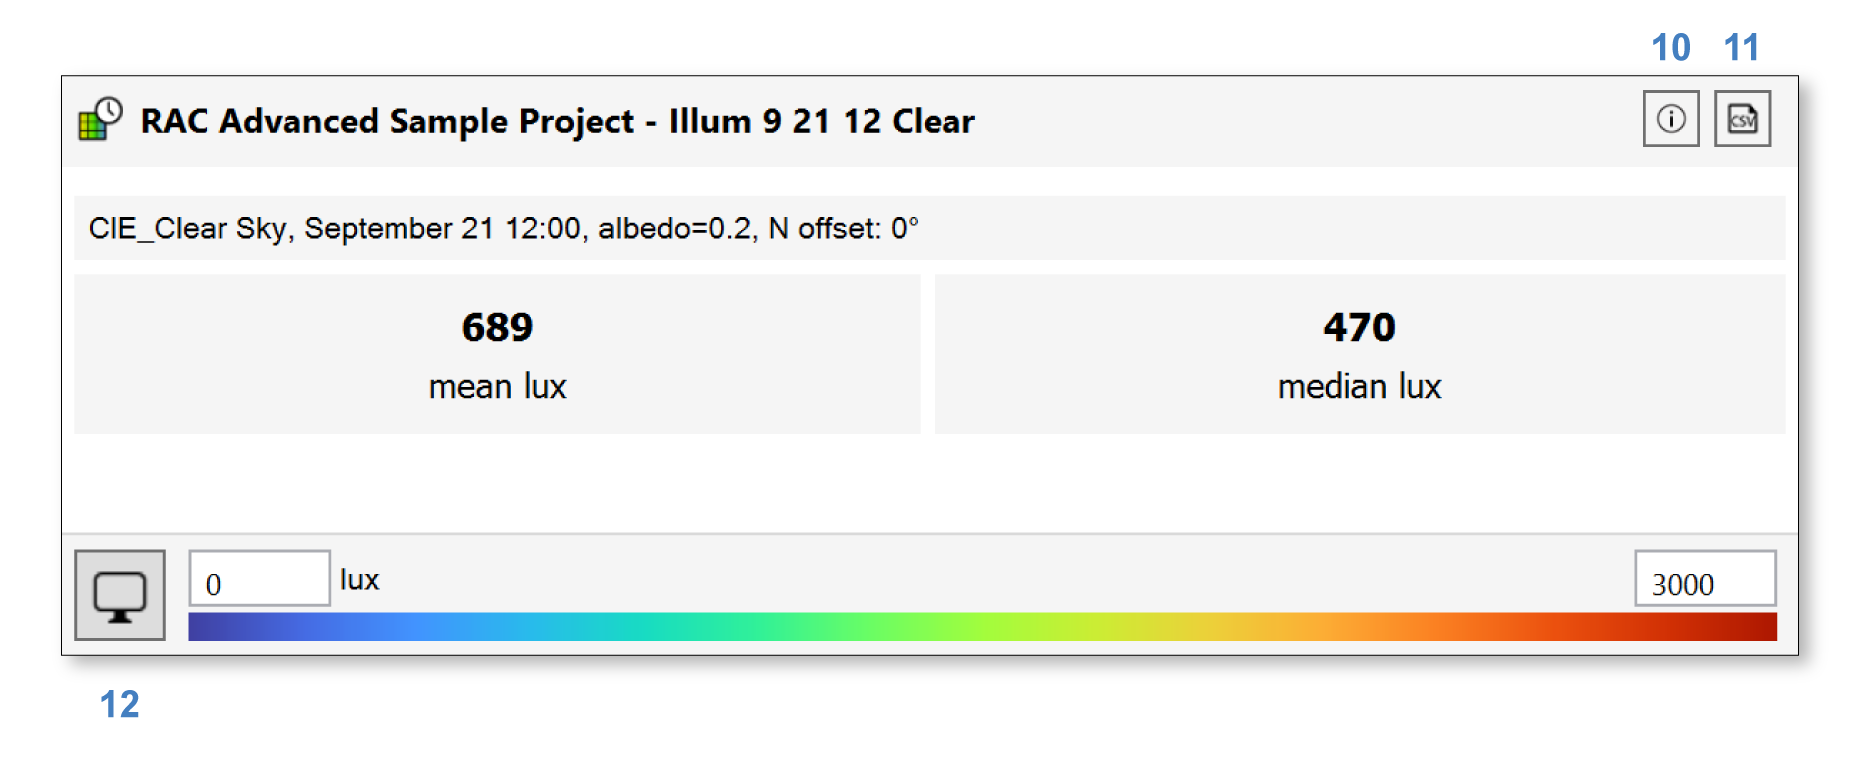
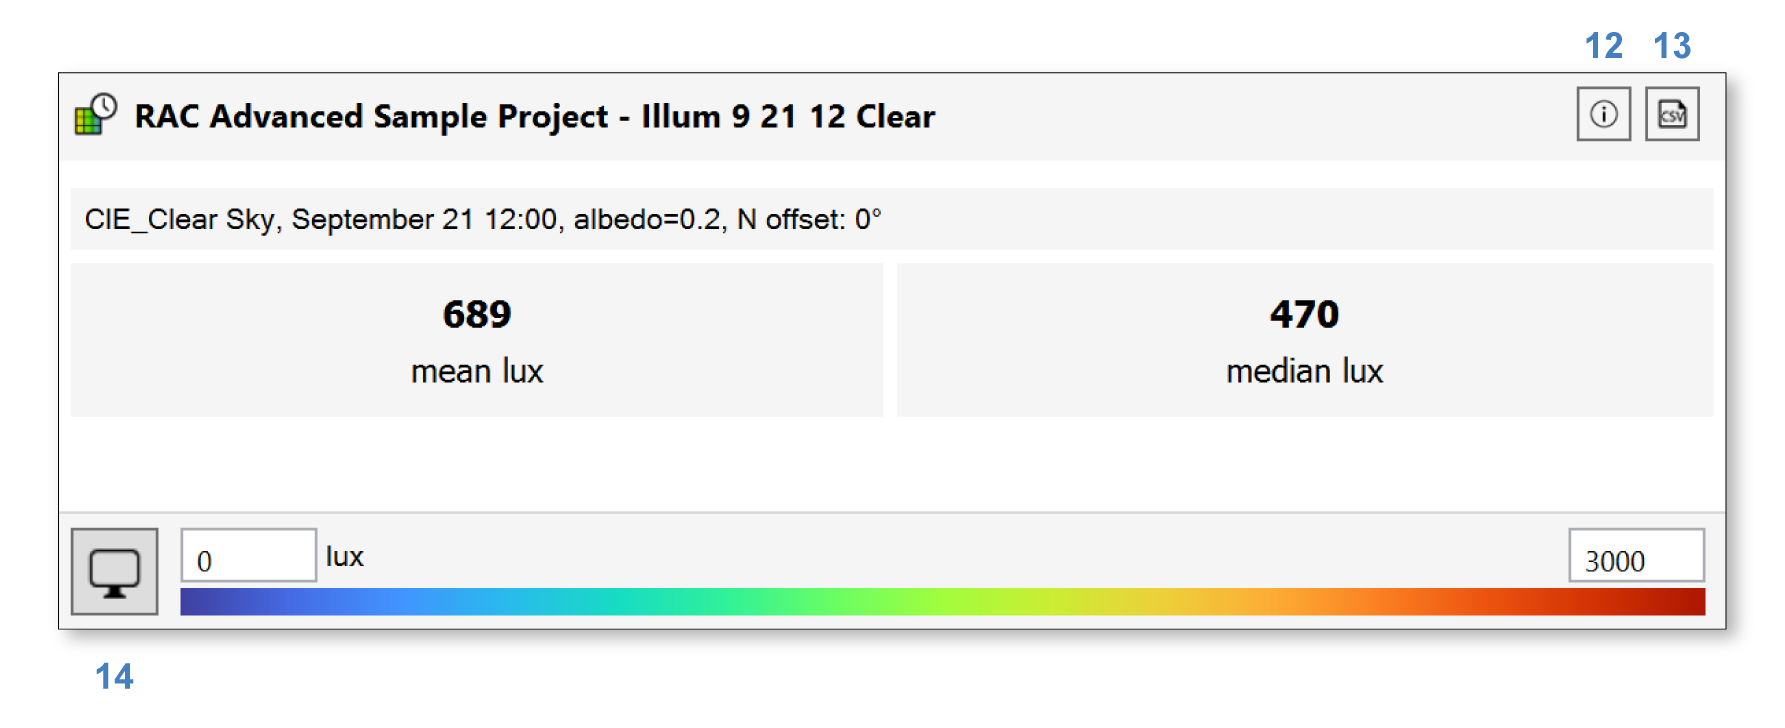
SceneObjects page and all WORKFLOWs screenshots and callout number update #17

diff --git a/docs/annualGlare.rst b/docs/annualGlare.rst
@@ -22,7 +22,7 @@ To prepare a model for simulation, work your way through the four subpanels labe
 | 1 - `Location`_
 | 2 - `Materials`_
 | 3 - `Occupied Areas`_ 
-| 4 - `Tubular Daylighting Devices`_ (optional)
+| 4 - `Scene Objects`_ (optional): `Tubular Daylighting Devices`_ (6), and `Trees`_ (7)
 | 5 - `Import .cse file from Revit`_ (optional)
 
 
@@ -36,10 +36,15 @@ To prepare a model for simulation, work your way through the four subpanels labe
 
 .. _Import .cse file from Revit: revitImporter.html
 
+.. _Trees: tree.html
+
+.. _Scene Objects: sceneObjects.html
+
 
 Please note that at this point, ClimateStudio does not support annual glare calculations that consider the use of dynamic shading systems.
 
-If you have not done any lighting simulations in ClimateStudio, it is recommended that you go through the `Lighting Model Setup video tutorial`_ (5 minutes) followed by a video tutorial specifically focused on `Annual Glare Analysis.`_ The Rhino file used in the tutorials is available for `download.`_
+If you have not done any lighting simulations in ClimateStudio, it is recommended that you go through the `Lighting Model Setup video tutorial`_ (5 minutes) followed by a video tutorial specifically focused on `Annual Glare Analysis.`_ 
+The Rhino file used in the tutorials is available for `download.`_
 
 .. _Lighting Model Setup video tutorial: https://vimeo.com/392379928
 
@@ -47,7 +52,9 @@ If you have not done any lighting simulations in ClimateStudio, it is recommende
 
 .. _download.: https://climatestudiodocs.com/ExampleFiles/CS_Two_Zone_Office.3dm
 
-Once all required inputs have been populated, a simulation is invoked by pressing the start button (6). ClimateStudio uses a `progressive path-tracing`_ version of the Radiance raytracer to simulate luminance distributions. While a simulation is in progress, traced light paths accumulate until the user-specified number of passes has been reached. Details on the simulation settings can be found by opening the `settings dialog`_ (7).
+Once all required inputs have been populated, a simulation is invoked by pressing the start button (8). 
+ClimateStudio uses a `progressive path-tracing`_ version of the Radiance raytracer to simulate luminance distributions. While a simulation is in progress, 
+traced light paths accumulate until the user-specified number of passes has been reached. Details on the simulation settings can be found by opening the `settings dialog`_ (9).
  
 .. _progressive path-tracing: https://www.solemma.com/blog/why-is-climatestudio-so-fast
 .. _settings dialog: pathTracingSettings.html
@@ -77,7 +84,7 @@ Interface Components
 The results interface has five sections:
 
 
-- The **Header** includes the result name, a CSV export (9), and an information dialog (8), which provides an accounting of simulation inputs.
+- The **Header** includes the result name, a CSV export (10), and an information dialog (11), which provides an accounting of simulation inputs.
 
 .. _report generator: #reporting
 
@@ -85,15 +92,15 @@ The results interface has five sections:
 
 .. _report generator: #reporting
 
-- The **Temporal Graphs** show the frequency of each DGP bin across all views(10), grouped by hour of day and day of year. In this example, the occurrence of perceptible, disturbing, and intolerable glare is unsurprisingly higher in the afternoons, since the building features rooms with Western but not Eastern exposures. The floor area(s) included in the graph can be altered using the dropdown (11) or by filtering and/or selecting areas in the Room Table. The rightmost dropdown (12) permits switching between annual and single-day statistics. In the latter mode, time sliders let you scrub through individual hours of year, which causes timestep DGP data to be previewed in the Rhino viewport. Export graph as bitmap with button on top right of graph (13). 
+- The **Temporal Graphs** show the frequency of each DGP bin across all views(12), grouped by hour of day and day of year. In this example, the occurrence of perceptible, disturbing, and intolerable glare is unsurprisingly higher in the afternoons, since the building features rooms with Western but not Eastern exposures. The floor area(s) included in the graph can be altered using the dropdown (13) or by filtering and/or selecting areas in the Room Table. The rightmost dropdown (14) permits switching between annual and single-day statistics. In the latter mode, time sliders let you scrub through individual hours of year, which causes timestep DGP data to be previewed in the Rhino viewport. Export graph as bitmap with button on top right of graph (15). 
 
 .. _report generator: #reporting
 
-- The **Room Table** lists results for each regularly occupied floor area in the building. Selecting rooms by filtration (14) or row selection isolates their preview in the temporal graphs and the Rhino viewport, and updates the statistics in the "Totals" row at the bottom of the table.
+- The **Room Table** lists results for each regularly occupied floor area in the building. Selecting rooms by filtration (16) or row selection isolates their preview in the temporal graphs and the Rhino viewport, and updates the statistics in the "Totals" row at the bottom of the table.
 
 .. _report generator: #reporting
 
-- The **Viewport Settings** bar contains a viewport preview legend and viewport settings menu (15), which provides options for customizing the falsecolor display. Altering the upper bound of the falsecolor will also change the time percentage threshold used by the sDG metric in the Building Dashboard.
+- The **Viewport Settings** bar contains a viewport preview legend and viewport settings menu (17), which provides options for customizing the falsecolor display. Altering the upper bound of the falsecolor will also change the time percentage threshold used by the sDG metric in the Building Dashboard.
 
 .. _report generator: #reporting
 
@@ -105,7 +112,7 @@ Hovering over a view slice in the Rhino viewport will update the temporal graphs
    
 .. _report generator: #reporting
    
-In this case, the selected view faces the Western glazing, and has severe issues with afternoon glare throughout the entire year. To better understand cause and directionality of glare at any particular moment in time, you can select a point in the lower graph, which corresponds to a specific date and hour (16). Subsequently clicking on the camera icon (17) will initiate a `Radiance Rendering`_ using the sky condition for the corresponding step in the weather file:
+In this case, the selected view faces the Western glazing, and has severe issues with afternoon glare throughout the entire year. To better understand cause and directionality of glare at any particular moment in time, you can select a point in the lower graph, which corresponds to a specific date and hour (18). Subsequently clicking on the camera icon (19) will initiate a `Radiance Rendering`_ using the sky condition for the corresponding step in the weather file:
 
 .. _Radiance Rendering: radianceRender.html
 

diff --git a/docs/radiationMap.rst b/docs/radiationMap.rst
@@ -17,7 +17,8 @@ To prepare a model for simulation, work your way through the three subpanels lab
 | 1 - `Location`_
 | 2 - `Materials`_
 | 3 - `Analysis Surfaces`_ 
-| 4 - `Import .cse file from Revit`_ (optional)
+| 4 - `Scene Objects`_ (optional): `Trees`_ (6)
+| 5 - `Import .cse file from Revit`_ (optional)
 
 
 .. _Location: location.html
@@ -28,7 +29,16 @@ To prepare a model for simulation, work your way through the three subpanels lab
 
 .. _Import .cse file from Revit: revitImporter.html
 
-Once all required inputs have been populated, a simulation is invoked by pressing the start button (5). ClimateStudio uses a `progressive path-tracing`_ version of the Radiance raytracer to simulate irradiance distributions. While a simulation is in progress, traced light paths accumulate until the user-specified number of passes has been reached. Details on the simulation settings can be found by opening the `settings dialog`_ (6). For radiation maps, the dialog includes **low/high outdoor temperature thresholds**, which can be used to bin radiation occurring during hot or cold hours throughout the year.
+.. _Trees: tree.html
+
+.. _Scene Objects: sceneObjects.html
+
+Once all required inputs have been populated, a simulation is invoked by pressing the start button (7). 
+ClimateStudio uses a `progressive path-tracing`_ version of the Radiance raytracer to simulate irradiance distributions. 
+While a simulation is in progress, traced light paths accumulate until the user-specified number of passes has been reached. 
+Details on the simulation settings can be found by opening the `settings dialog`_ (8). 
+For radiation maps, the dialog includes **low/high outdoor temperature thresholds**, 
+which can be used to bin radiation occurring during hot or cold hours throughout the year.
 
 .. _progressive path-tracing: https://www.solemma.com/blog/why-is-climatestudio-so-fast
 .. _settings dialog: pathTracingSettings.html	
@@ -50,20 +60,21 @@ The `results panel`_ will show a monthly data plot, table, and viewport legend, 
    :width: 900px
    :align: center
 
-- The **Header** includes the result name, a CSV export (8), and an information dialog (7), which provides an accounting of simulation inputs.
+- The **Header** includes the result name, a CSV export (10), and an information dialog (9), which provides an accounting of simulation inputs.
 
 .. _report generator: #reporting
 
-- The **Filters** allow binning radiation by type or temperature. The **Radiation Type Filter** (9) lets you toggle between *total*, *direct*, or *indirect* solar exposure. Direct radiation is that coming directly from the sun, without scattering or reflection. The **Temperature Filter** (10) lets you isolate hours where the outdoor temperature is above or below the high and low temperature thresholds set prior to the run. The filters determine the data displayed in both the viewport and the monthly graph.
+- The **Filters** allow binning radiation by type or temperature. The **Radiation Type Filter** (11) lets you toggle between *total*, *direct*, or *indirect* solar exposure. Direct radiation is that coming directly from the sun, without scattering or reflection. The **Temperature Filter** (12) lets you isolate hours where the outdoor temperature is above or below the high and low temperature thresholds set prior to the run. The filters determine the data displayed in both the viewport and the monthly graph.
+
 
 .. _report generator: #reporting
 
-- The **Monthly Graph** shows mean cumulative exposure data for each month of the year. By default these are area-weighted averages for all analysis surfaces, but a subset of surfaces can be isolated using the Surface Table. Data for an individual sensor can be displayed by hovering over the sensor in the viewport. The graph can be exported to PNG using the dropdown menu (11).
+- The **Monthly Graph** shows mean cumulative exposure data for each month of the year. By default these are area-weighted averages for all analysis surfaces, but a subset of surfaces can be isolated using the Surface Table. Data for an individual sensor can be displayed by hovering over the sensor in the viewport. The graph can be exported to PNG using the dropdown menu (13).
 
 .. _report generator: #reporting
 
-- The **Surface Table** lists the mean total and normalized solar exposure, as well as min and max sensor values, for each analysis surface. Selecting surfaces by filtration (12) or row selection isolates their preview in the monthly graph and the Rhino viewport, and updates the statistics in the "Totals" row at the bottom of the table.
+- The **Surface Table** lists the mean total and normalized solar exposure, as well as min and max sensor values, for each analysis surface. Selecting surfaces by filtration (14) or row selection isolates their preview in the monthly graph and the Rhino viewport, and updates the statistics in the "Totals" row at the bottom of the table.
 
 .. _report generator: #reporting
 
-- The **Viewport Settings** bar contains a viewport preview legend and settings menu (13), which provides options for customizing the falsecolor display.
+- The **Viewport Settings** bar contains a viewport preview legend and settings menu (15), which provides options for customizing the falsecolor display.

diff --git a/docs/daylightAvailability.rst b/docs/daylightAvailability.rst
@@ -15,10 +15,9 @@ Depending on the sub-workflow selected, you will see up to six subpanels (labele
 
 | 1 - `Location`_
 | 2 - `Materials`_
-| 3 - `Blinds`_
-| 4 - `Occupied Areas`_ 
-| 5 - `Tubular Daylighting Devices`_ (optional)
-| 6 - `Import .cse file from Revit`_ (optional)
+| 3 - `Occupied Areas`_ 
+| 4 - `Scene Objects`_ (optional): `Tubular Daylighting Devices`_ (6), and `Trees`_ (7)
+| 5 - `Import .cse file from Revit`_ (optional)
 
 
 .. _Location: location.html
@@ -33,6 +32,10 @@ Depending on the sub-workflow selected, you will see up to six subpanels (labele
 
 .. _Import .cse file from Revit: revitImporter.html
 
+.. _Trees: tree.html
+
+.. _Scene Objects: sceneObjects.html
+
 Please note that **modeling blinds is required** for the LEED Option 1 credit, and for achieving realistic predictions of annual daylight levels in buildings. Dynamic blinds are not considered for sub-workflows that assess point-in-time conditions (LEED Option 2, Daylight Factor, and BREEAM 4a/c). 
 
 If you have not done any lighting simulations in ClimateStudio, it is recommended that you initially go through the `Lighting Model Setup`_ video tutorial (5 minutes). 
@@ -41,7 +44,8 @@ The Rhino file used in the tutorial is available for `download`_.
 .. _Lighting Model Setup: https://vimeo.com/392379928 
 .. _download: https://climatestudiodocs.com/ExampleFiles/CS_Two_Zone_Office.3dm
 
-Once all required inputs have been populated, a simulation is invoked by pressing the start button (7). ClimateStudio uses a `progressive path tracing`_ version of the Radiance raytracer to simulate illuminance distributions. While a simulation is in progress, traced light paths accumulate until the user-specified number of passes has been reached. Details on the simulation settings can be found by opening the `settings dialog`_ (8).
+Once all required inputs have been populated, a simulation is invoked by pressing the start button (8). ClimateStudio uses a `progressive path tracing`_ version of the Radiance raytracer to simulate illuminance distributions. 
+While a simulation is in progress, traced light paths accumulate until the user-specified number of passes has been reached. Details on the simulation settings can be found by opening the `settings dialog`_ (9).
  
 .. _progressive path tracing: https://www.solemma.com/blog/why-is-climatestudio-so-fast
 .. _settings dialog: pathTracingSettings.html
@@ -49,7 +53,7 @@ Once all required inputs have been populated, a simulation is invoked by pressin
 
 Simulation Results
 ------------------------
-Daylight availability results vary depending on the sub-workflow selected prior to simulation (9). Use the links below to skip ahead to the option of interest:
+Daylight availability results vary depending on the sub-workflow selected prior to simulation (10). Use the links below to skip ahead to the option of interest:
 
 .. toctree::
    :maxdepth: 1

diff --git a/docs/illuminance.rst b/docs/illuminance.rst
@@ -14,10 +14,9 @@ To prepare a model for simulation, work your way through the six subpanels label
 | 1 - `Location`_
 | 2 - `Sky`_
 | 3 - `Materials`_
-| 4 - `Luminaires`_ (optional)
+| 4 - `Scene Objects`_ (optional): `Luminaires`_ (7),  `Tubular Daylighting Devices`_ (8), and `Trees`_ (9)
 | 5 - `Occupied Areas`_ 
-| 6 - `Tubular Daylighting Devices`_ (optional)
-| 7 - `Import .cse file from Revit`_ (optional)
+| 6 - `Import .cse file from Revit`_ (optional)
 
 .. _Location: location.html
 
@@ -33,6 +32,10 @@ To prepare a model for simulation, work your way through the six subpanels label
 
 .. _Import .cse file from Revit: revitImporter.html
 
+.. _Trees: tree.html
+
+.. _Scene Objects: sceneObjects.html
+
 
 If you have not done any lighting simulations in ClimateStudio, it is recommended that you initially go through the `Lighting Model Setup`_ video tutorial (5 minutes). 
 The Rhino file used in the tutorial is available for `download`_.
@@ -41,7 +44,9 @@ The Rhino file used in the tutorial is available for `download`_.
 .. _download: https://climatestudiodocs.com/ExampleFiles/CS_Two_Zone_Office.3dm
  
 
-Once all required inputs have been populated, a simulation is invoked by pressing the start button (8). ClimateStudio uses a `progressive path-tracing`_ version of the Radiance raytracer to simulate illuminance distributions. While a simulation is in progress, traced light paths accumulate until the user-specified number of passes has been reached. Details on the simulation settings can be found by opening the `settings dialog`_ (9).
+Once all required inputs have been populated, a simulation is invoked by pressing the start button (10). ClimateStudio uses a `progressive path-tracing`_ version of the Radiance raytracer to simulate illuminance distributions. 
+While a simulation is in progress, traced light paths accumulate until the user-specified number of passes has been reached. 
+Details on the simulation settings can be found by opening the `settings dialog`_ (11).
  
 .. _progressive path-tracing: https://www.solemma.com/blog/why-is-climatestudio-so-fast
 .. _settings dialog: pathTracingSettings.html
@@ -56,7 +61,7 @@ Upon completion of the first pass, or upon loading a saved result, the `results 
    :width: 900px
    :align: center
 
-At the top of the panel, an info dialog (10) reports simulation inputs, while a CSV export (11) saves results to an Excel-readable format. At the bottom, a legend and settings menu (12) provide options for customizing the falsecolor display, which is shown in the Rhino viewport:
+At the top of the panel, an info dialog (12) reports simulation inputs, while a CSV export (13) saves results to an Excel-readable format. At the bottom, a legend and settings menu (14) provide options for customizing the falsecolor display, which is shown in the Rhino viewport:
 
 .. figure:: images/result_viewportIllum.png
    :width: 900px

diff --git a/docs/viewAnalysis.rst b/docs/viewAnalysis.rst
@@ -14,13 +14,18 @@ To prepare a model for simulation, work your way though the materials and occupi
 
 | 1 - `Materials`_
 | 2 - `Occupied Areas`_ 
-| 3 - `Import .cse file from Revit`_ (optional)
+| 3 - `Scene Objects`_ (optional): `Trees`_ (5)
+| 4 - `Import .cse file from Revit`_ (optional)
 
 .. _Materials: materials.html
 
 .. _Occupied Areas: occupiedAreas.html
 
 .. _Import .cse file from Revit: revitImporter.html
+
+.. _Trees: tree.html
+
+.. _Scene Objects: sceneObjects.html
 
 When assigning materials, a **VisionGlass** tag must be attached to layers that represent exterior vision glazing. Although the materials specified in the Material column determine the optical behavior of surfaces in the model (and hence what can be seen from any vantage), a separate View Tag is required to distinguish the "vision glazing," because it is specifically through these surfaces that views and view distances are measured. Please note that **layers not given a material (left column) will not be included in the simulation**.
  
@@ -37,7 +42,7 @@ The Rhino file used in the tutorial is available for `download`_.
 .. _download: https://climatestudiodocs.com/ExampleFiles/CS_Two_Zone_Office.3dm
  
 
-Once all required inputs have been populated, a simulation is invoked by pressing the start button (4). The number of CPU cores used can be adjusted via the settings dialog (5).
+Once all required inputs have been populated, a simulation is invoked by pressing the start button (6). The number of CPU cores used can be adjusted via the settings dialog (7).
  
 Simulation Results
 --------------------

diff --git a/docs/sceneObjects.rst b/docs/sceneObjects.rst
@@ -1,0 +1,61 @@
+Scene Objects (Assets)
+================================================
+
+Scene objects are geometries that can be placed in Rhino model as a Rhino block. These objects can be picked up by ClimateStudio when running simulations.  
+
+.. figure:: images/workflowPanel_SceneObjects.png
+   :width: 900px
+   :align: center
+
+As of v2.0 There are three different scene objects (assets) that can be placed: 
+
+| 1 - `Luminaires`_ (optional)
+| 2 - `Tubular Daylighting Devices`_ (optional)
+| 3 - `Trees`_ (optional)
+
+`Luminaires`_ are available for the following workflows: 
+
+- `Point-in-time Illuminance`_
+- `Radiance Render`_
+
+`Tubular Daylighting Devices`_ are available for the following workflows: 
+
+- `Point-in-time Illuminance`_
+- `Daylight Availability`_
+- `Annual Glare`_
+- `Radiance Render`_
+
+`Trees`_ are available for the following workflows: 
+
+- `Point-in-time Illuminance`_
+- `Daylight Availability`_
+- `Annual Glare`_
+- `Radiance Render`_
+- `Radiation Map`_
+- `View Analysis`_ 
+
+
+
+.. _Trees: tree.html
+
+.. _Luminaires: luminaires.html
+
+.. _Tubular Daylighting Devices: TDDs.html
+
+
+
+.. _Site Analysis: siteAnalysis.html 
+
+.. _Radiation Map: radiationMap.html 
+
+.. _Point-in-time Illuminance: illuminance.html
+
+.. _Daylight Availability: daylightAvailability.html 
+
+.. _Annual Glare: annualGlare.html
+
+.. _Radiance Render: radianceRender.html
+
+.. _Thermal Analysis: thermalAnalysis.html
+
+.. _View Analysis: viewAnalysis.html

diff --git a/docs/radianceRender.rst b/docs/radianceRender.rst
@@ -16,9 +16,8 @@ To prepare a model for rendering, work your way through the six subpanels labele
 | 1 - `Location`_
 | 2 - `Sky`_
 | 3 - `Materials`_
-| 4 - `Luminaires`_ (optional)
-| 5 - `Tubular Daylighting Devices`_ (optional)
-| 6 - `Import .cse file from Revit`_ (optional)
+| 4 - `Scene Objects`_ (optional): `Luminaires`_ (6),  `Tubular Daylighting Devices`_ (7), and `Trees`_ (8)
+| 5 - `Import .cse file from Revit`_ (optional)
 
 .. _Location: location.html
 
@@ -32,13 +31,17 @@ To prepare a model for rendering, work your way through the six subpanels labele
 
 .. _Import .cse file from Revit: revitImporter.html
 
+.. _Trees: tree.html
+
+.. _Scene Objects: sceneObjects.html
+
 If you have not done any lighting simulations in ClimateStudio, it is recommended that you go through the `Lighting Model Setup video tutorial`_ (5 minutes). The Rhino file used in the tutorial is available for `download.`_
 
 .. _Lighting Model Setup video tutorial: https://vimeo.com/392379928
 
 .. _download.: https://climatestudiodocs.com/ExampleFiles/CS_Two_Zone_Office.3dm
 
-Once all required inputs have been populated, click the Render Window button (7), which opens a form with a camera viewport on the left and camera settings on the right.
+Once all required inputs have been populated, click the Render Window button (9), which opens a form with a camera viewport on the left and camera settings on the right.
 
 
 Camera Setup

diff --git a/docs/tree.rst b/docs/tree.rst
@@ -1,6 +1,6 @@
 Trees
 ================================================
-ClimateStudio comes with a set of 9 pre-made trees that can be placed into the model. These trees are pre-processed for our `radiance render engine`_. 
+ClimateStudio v2.0 comes with a set of 9 pre-made trees that can be placed into the model. These trees are pre-processed for our `radiance render engine`_. 
 
 The Tree Panel is used to place the pre-made trees, either individually or in groups. 
 
